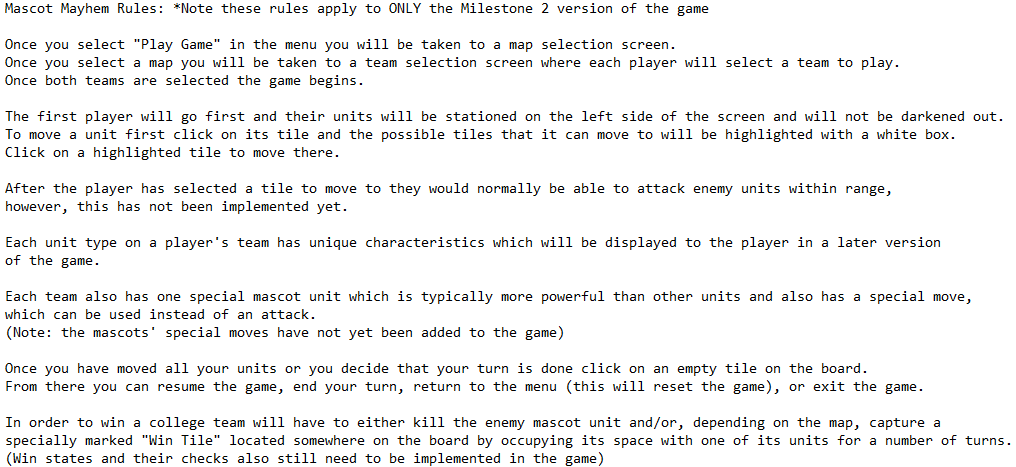
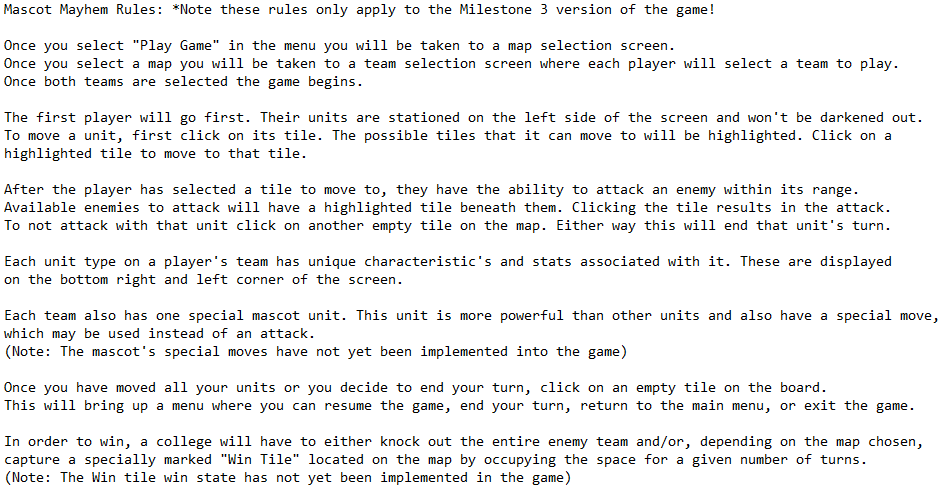
Update
Updated rules, added archers to the teams, updated the map selection
screen

diff --git a/Game1/Game1/Game1.cs b/Game1/Game1/Game1.cs
@@ -231,7 +231,8 @@ namespace Game1
                     break;
 
                 case GameState.MapSelect:
-                    // run through where the mouse is clicking and load that map
+                    //run through where the mouse is clicking and load that map
+                    /*//loaded the default map, no longer in use
                     if (SingleLeftMouseLocationPress(new Rectangle(GraphicsDevice.Viewport.Width / 2 - 100, GraphicsDevice.Viewport.Height / 2 - 50, 220, 25))) //load default map
                     {
                         LoadMap("test"); //change this for different file name
@@ -242,6 +243,7 @@ namespace Game1
                         //progress to the game
                         curState = GameState.Game;
                     }
+                    */
 
                     if (SingleLeftMouseLocationPress(new Rectangle(GraphicsDevice.Viewport.Width / 6 - 115, GraphicsDevice.Viewport.Height / 6, 250, 120))) //load Aliens map
                     {
@@ -687,7 +689,7 @@ namespace Game1
                     if (displayRules)
                     {
                         spriteBatch.Draw(rules, new Rectangle(10, 10, GraphicsDevice.Viewport.Width - 20, GraphicsDevice.Viewport.Height - 100), Color.White);
-                        spriteBatch.DrawString(font, "Click Anywhere to exit the rules", new Vector2(GraphicsDevice.Viewport.Width/4, GraphicsDevice.Viewport.Height - 50), Color.White);
+                        spriteBatch.DrawString(font, "Click anywhere to exit the rules", new Vector2(GraphicsDevice.Viewport.Width/2 - 200, GraphicsDevice.Viewport.Height - 60), Color.White);
                     }
                     break;
 
@@ -704,7 +706,7 @@ namespace Game1
 
                 case GameState.MapSelect:
                     spriteBatch.DrawString(font, "Map Selection", new Vector2(GraphicsDevice.Viewport.Width / 2 - 100, 100), Color.White);
-                    spriteBatch.DrawString(font, "Select Map By Clicking", new Vector2(GraphicsDevice.Viewport.Width/2 - 130, GraphicsDevice.Viewport.Height/2 - 50), ScrolledOver(new Rectangle(GraphicsDevice.Viewport.Width / 2 - 100, GraphicsDevice.Viewport.Height / 2 - 50, 220, 25)));
+                    spriteBatch.DrawString(font, "Select A Map By Clicking On It", new Vector2(GraphicsDevice.Viewport.Width/2 - 180, GraphicsDevice.Viewport.Height/2 - 50), Color.White);
                     
                     // load custom maps
                     spriteBatch.Draw(menu, new Rectangle(GraphicsDevice.Viewport.Width / 6 - 115, GraphicsDevice.Viewport.Height / 6, 250, 120), Color.White); // Draw "Aliens Were Here" map preview

diff --git a/Game1/Game1/College.cs b/Game1/Game1/College.cs
@@ -60,6 +60,7 @@ namespace Game1
             collegeName = name;
             unitSprites = sprites;
 
+            //depending on team name load the predefined team comps
             if(name == "RIT")
             {
                 string school = "RIT";
@@ -68,7 +69,7 @@ namespace Game1
                 units[0] = mascot;
                 units[1] = new Unit("Hockey", team, school);
                 units[2] = new Unit("Hockey", team, school);
-                units[3] = new Unit("Hockey", team, school);
+                units[3] = new Unit("Archery Club", team, school);
                 units[4] = new Unit("Football", team, school);
                 units[5] = new Unit("Football", team, school);
                 units[6] = new Unit("Outdoor Club", team, school);
@@ -84,7 +85,7 @@ namespace Game1
                 units[0] = mascot;
                 units[1] = new Unit("Lacrosse", team, school);
                 units[2] = new Unit("Lacrosse", team, school);
-                units[3] = new Unit("Lacrosse", team, school);
+                units[3] = new Unit("Archery Club", team, school);
                 units[4] = new Unit("Football", team, school);
                 units[5] = new Unit("Football", team, school);
                 units[6] = new Unit("Outdoor Club", team, school);
